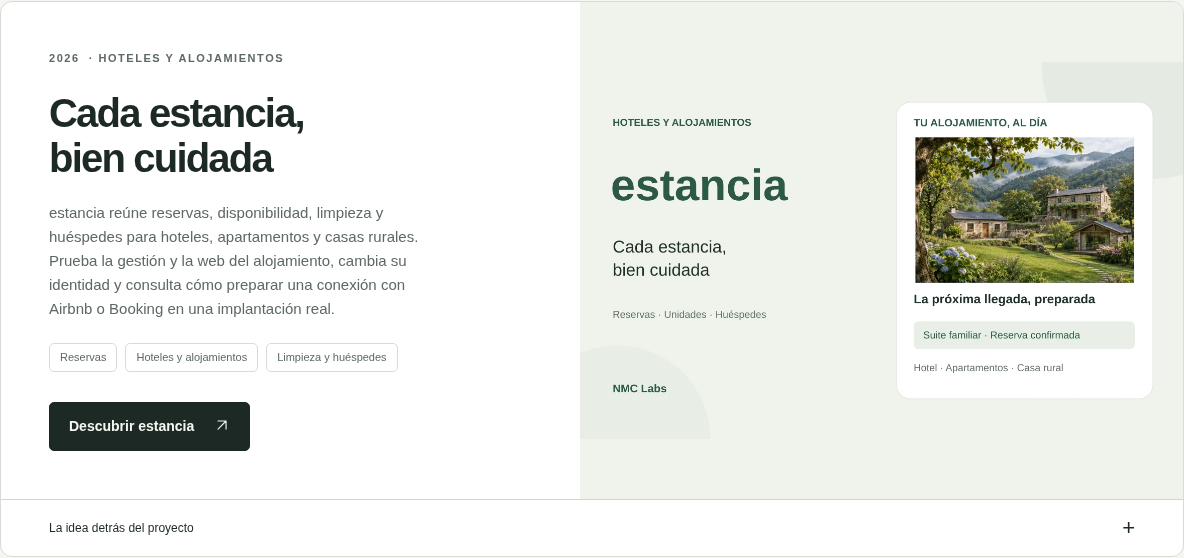
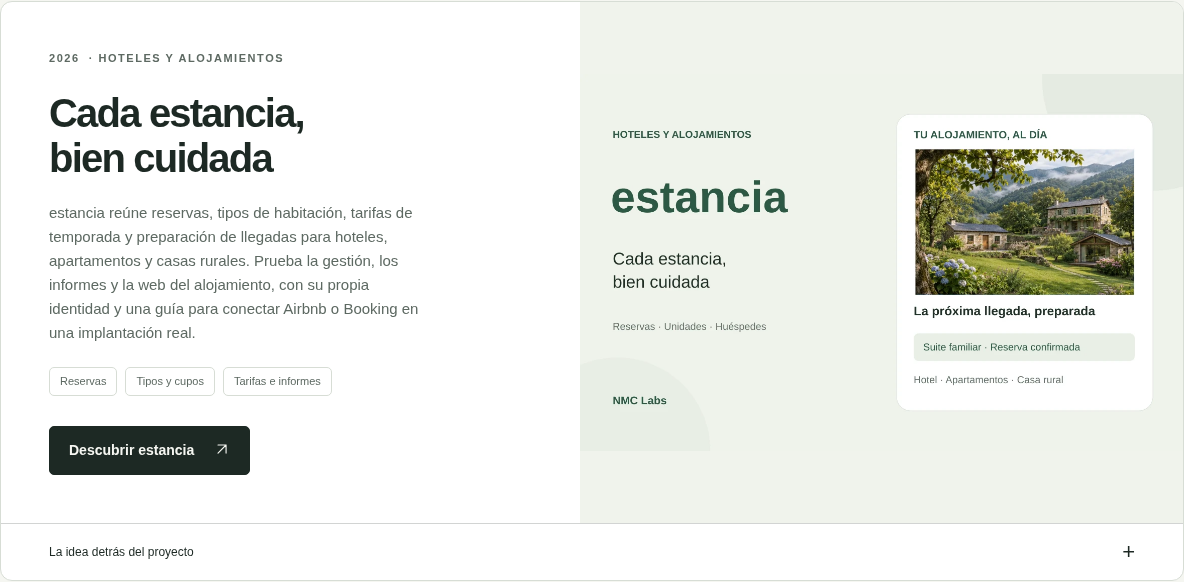
docs: showcase estancia room inventory and hospitality tools

diff --git a/index.html b/index.html
@@ -50,7 +50,7 @@
         <details class="project-origin"><summary><span>La idea detrás del proyecto</span><span class="origin-toggle" aria-hidden="true">+</span></summary><div class="origin-content" aria-label="La idea de Puntual"><div><span class="origin-label">LA IDEA</span><p>Un corte no debería interrumpirse para encontrar una hora entre llamadas y mensajes.</p></div><div><span class="origin-label">EL RETO</span><p>Hacer que cada reserva respete las especialidades del equipo, la duración del servicio y los descansos.</p></div><div><span class="origin-label">LA DECISIÓN</span><p>Conectar la reserva del cliente y la agenda del negocio en una demo completa, con cambios y cancelaciones que actualizan los huecos.</p></div></div></details>
       </article>
       <article class="featured amano-featured" aria-labelledby="amano-titulo"><div class="featured-content"><p class="eyebrow"><time datetime="2026">2026</time> · INVENTARIO DE EMPRESA</p><h3 id="amano-titulo">Cada equipo,<br>en su sitio</h3><p>amano conecta el material de una empresa con las personas, las ubicaciones y su historial. Registra equipos con foto, personaliza la identidad de tu empresa y prueba asignaciones, préstamos, devoluciones, mantenimiento y etiquetas QR.</p><ul class="tags" aria-label="Funciones de amano"><li>Inventario</li><li>Custodia y préstamos</li><li>QR y mantenimiento</li></ul><a class="button project-cta" href="https://amano.nmclabs.dev/" target="_blank" rel="noopener noreferrer">Descubrir amano <span aria-hidden="true"><svg class="icon-arrow" viewBox="0 0 24 24" fill="none"><path d="m6 18 12-12M6 6h12v12" stroke="currentColor" stroke-width="1.7" stroke-linecap="round" stroke-linejoin="round"/></svg></span></a></div><a class="amano-art brand-art" href="https://amano.nmclabs.dev/" target="_blank" rel="noopener noreferrer" aria-label="Descubrir amano en una pestaña nueva"><picture class="project-cover"><source media="(prefers-color-scheme: dark)" srcset="proyectos/amano-brand-dark.webp?v=themes1"><img src="proyectos/amano-brand-light.webp?v=themes1" width="1200" height="750" alt="amano: equipo identificado, portátil y persona responsable" loading="lazy"></picture></a><details class="project-origin"><summary><span>La idea detrás del proyecto</span><span class="origin-toggle" aria-hidden="true">+</span></summary><div class="origin-content" aria-label="La idea de amano"><div><span class="origin-label">LA IDEA</span><p>Saber qué material tiene una empresa, dónde está y quién lo utiliza sin depender de varias hojas y mensajes.</p></div><div><span class="origin-label">EL RETO</span><p>Conectar cada equipo con su persona responsable, las entregas, las devoluciones y los cuidados pendientes.</p></div><div><span class="origin-label">LA DECISIÓN</span><p>Dar identidad propia a cada unidad y permitir probar el recorrido completo, desde el alta hasta una etiqueta QR.</p></div></div></details></article>
-      <article class="featured estancia-featured" aria-labelledby="estancia-titulo"><div class="featured-content"><p class="eyebrow"><time datetime="2026">2026</time> · HOTELES Y ALOJAMIENTOS</p><h3 id="estancia-titulo">Cada estancia,<br>bien cuidada</h3><p>estancia reúne reservas, disponibilidad, limpieza y huéspedes para hoteles, apartamentos y casas rurales. Prueba la gestión y la web del alojamiento, cambia su identidad y consulta cómo preparar una conexión con Airbnb o Booking en una implantación real.</p><ul class="tags" aria-label="Funciones de estancia"><li>Reservas</li><li>Hoteles y alojamientos</li><li>Limpieza y huéspedes</li></ul><a class="button project-cta" href="https://estancia.nmclabs.dev/" target="_blank" rel="noopener noreferrer">Descubrir estancia <span aria-hidden="true"><svg class="icon-arrow" viewBox="0 0 24 24" fill="none"><path d="m6 18 12-12M6 6h12v12" stroke="currentColor" stroke-width="1.7" stroke-linecap="round" stroke-linejoin="round"/></svg></span></a></div><a class="estancia-art brand-art" href="https://estancia.nmclabs.dev/" target="_blank" rel="noopener noreferrer" aria-label="Descubrir estancia en una pestaña nueva"><picture class="project-cover"><source media="(prefers-color-scheme: dark)" srcset="proyectos/estancia-brand-dark.webp?v=themes1"><img src="proyectos/estancia-brand-light.webp?v=themes1" width="1200" height="750" alt="estancia: marca, alojamiento y calendario de reservas" loading="lazy"></picture></a><details class="project-origin"><summary><span>La idea detrás del proyecto</span><span class="origin-toggle" aria-hidden="true">+</span></summary><div class="origin-content" aria-label="La idea de estancia"><div><span class="origin-label">LA IDEA</span><p>Organizar reservas y preparar cada llegada sin perder la cercanía con los huéspedes.</p></div><div><span class="origin-label">EL RETO</span><p>Conectar la disponibilidad de cada unidad, las tareas y la experiencia de quien reserva.</p></div><div><span class="origin-label">LA DECISIÓN</span><p>Una gestión para el negocio y una web con su propia identidad, con ejemplos de hotel, apartamentos y finca rural.</p></div></div></details></article>
+      <article class="featured estancia-featured" aria-labelledby="estancia-titulo"><div class="featured-content"><p class="eyebrow"><time datetime="2026">2026</time> · HOTELES Y ALOJAMIENTOS</p><h3 id="estancia-titulo">Cada estancia,<br>bien cuidada</h3><p>estancia reúne reservas, tipos de habitación, tarifas de temporada y preparación de llegadas para hoteles, apartamentos y casas rurales. Prueba la gestión, los informes y la web del alojamiento, con su propia identidad y una guía para conectar Airbnb o Booking en una implantación real.</p><ul class="tags" aria-label="Funciones de estancia"><li>Reservas</li><li>Tipos y cupos</li><li>Tarifas e informes</li></ul><a class="button project-cta" href="https://estancia.nmclabs.dev/" target="_blank" rel="noopener noreferrer">Descubrir estancia <span aria-hidden="true"><svg class="icon-arrow" viewBox="0 0 24 24" fill="none"><path d="m6 18 12-12M6 6h12v12" stroke="currentColor" stroke-width="1.7" stroke-linecap="round" stroke-linejoin="round"/></svg></span></a></div><a class="estancia-art brand-art" href="https://estancia.nmclabs.dev/" target="_blank" rel="noopener noreferrer" aria-label="Descubrir estancia en una pestaña nueva"><picture class="project-cover"><source media="(prefers-color-scheme: dark)" srcset="proyectos/estancia-brand-dark.webp?v=themes1"><img src="proyectos/estancia-brand-light.webp?v=themes1" width="1200" height="750" alt="estancia: marca, alojamiento y calendario de reservas" loading="lazy"></picture></a><details class="project-origin"><summary><span>La idea detrás del proyecto</span><span class="origin-toggle" aria-hidden="true">+</span></summary><div class="origin-content" aria-label="La idea de estancia"><div><span class="origin-label">LA IDEA</span><p>Organizar reservas y preparar cada llegada sin perder la cercanía con los huéspedes.</p></div><div><span class="origin-label">EL RETO</span><p>Conectar la disponibilidad de cada unidad, las tareas y la experiencia de quien reserva.</p></div><div><span class="origin-label">LA DECISIÓN</span><p>Una gestión para el negocio y una web con su propia identidad, con ejemplos de hotel, apartamentos y finca rural.</p></div></div></details></article>
       <article class="featured atlas-featured" aria-labelledby="atlas-titulo">
         <div class="featured-content"><p class="eyebrow"><time datetime="2026">2026</time> · PATRIMONIO PERSONAL</p><h3 id="atlas-titulo">Un lugar para ver<br>tu patrimonio</h3><p>atlas reúne cuentas, inversiones y activos en una visión clara. Un registro mensual para entender tu evolución, a tu ritmo.</p><ul class="tags" aria-label="Funciones de Atlas"><li>Patrimonio</li><li>Evolución</li><li>Informes</li></ul><a class="button project-cta" href="https://atlas.nmclabs.dev/" target="_blank" rel="noopener noreferrer">Descubrir atlas <span aria-hidden="true"><svg class="icon-arrow" viewBox="0 0 24 24" fill="none" aria-hidden="true"><path d="m6 18 12-12M6 6h12v12" stroke="currentColor" stroke-width="1.7" stroke-linecap="round" stroke-linejoin="round"/></svg></span><span class="sr-only"> (se abre en una pestaña nueva)</span></a></div>
         <a class="atlas-art" href="https://atlas.nmclabs.dev/" aria-label="Descubrir Atlas" target="_blank" rel="noopener noreferrer"><picture class="project-cover"><source media="(prefers-color-scheme: dark)" srcset="proyectos/atlas-brand-dark.webp?v=themes1"><img src="proyectos/atlas-brand-light.webp?v=themes1" width="1200" height="750" alt="atlas: marca y evolución patrimonial ilustrada" loading="lazy"></picture></a>
